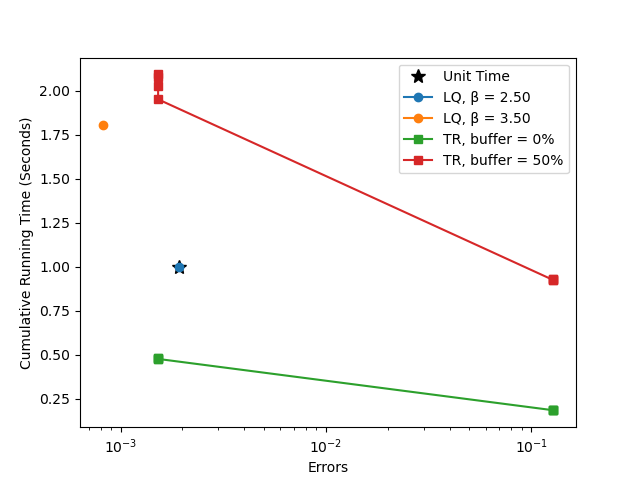
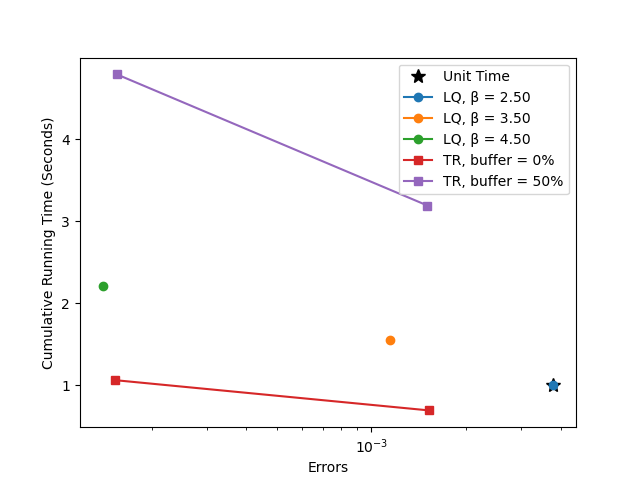
Changes for server run

diff --git a/2DTiming_TRvsLQ_Loop.py b/2DTiming_TRvsLQ_Loop.py
@@ -14,7 +14,7 @@ radius = 2
 h = 0.05
 betaVals = [2.5, 3.5, 4.5]
 bufferVals = [0, 0.5]
-endTime = 10
+endTime = 20
 spacingLQVals = [0.38]
 spacingTRVals = [0.25, 0.2, 0.18]
 
@@ -197,7 +197,7 @@ for buff in bufferVals:
 plt.legend()
 plt.xlabel("Errors")
 plt.ylabel("Cumulative Running Time (Seconds)")
-plt.savefig('Output/timingFigureT10.png')
+plt.savefig('Output/timingFigureT20.png')
 
 
 ListToSave = [betaDict_times, betaDict_errors, bufferDict_times, bufferDict_errors, betaVals, bufferVals, spacingLQVals, spacingTRVals, numPointsLQ, numPointsTR, h, radius, endTime]
@@ -205,14 +205,14 @@ import pickle
 
 # define dictionary
 # create a binary pickle file
-f = open("Output/fileT10.pkl","wb")
+f = open("Output/fileT20.pkl","wb")
 pickle.dump(ListToSave,f)
 f.close()
 
 
 import sys
 original_stdout = sys.stdout # Save a reference to the original standard output
-with open('Output/outputInformationT10.txt', 'w') as f:
+with open('Output/outputInformationT20.txt', 'w') as f:
     sys.stdout = f # Change the standard output to the file we created.
     print("Erorrs LQ", betaDict_errors)
     print("Errors TR", bufferDict_errors)
